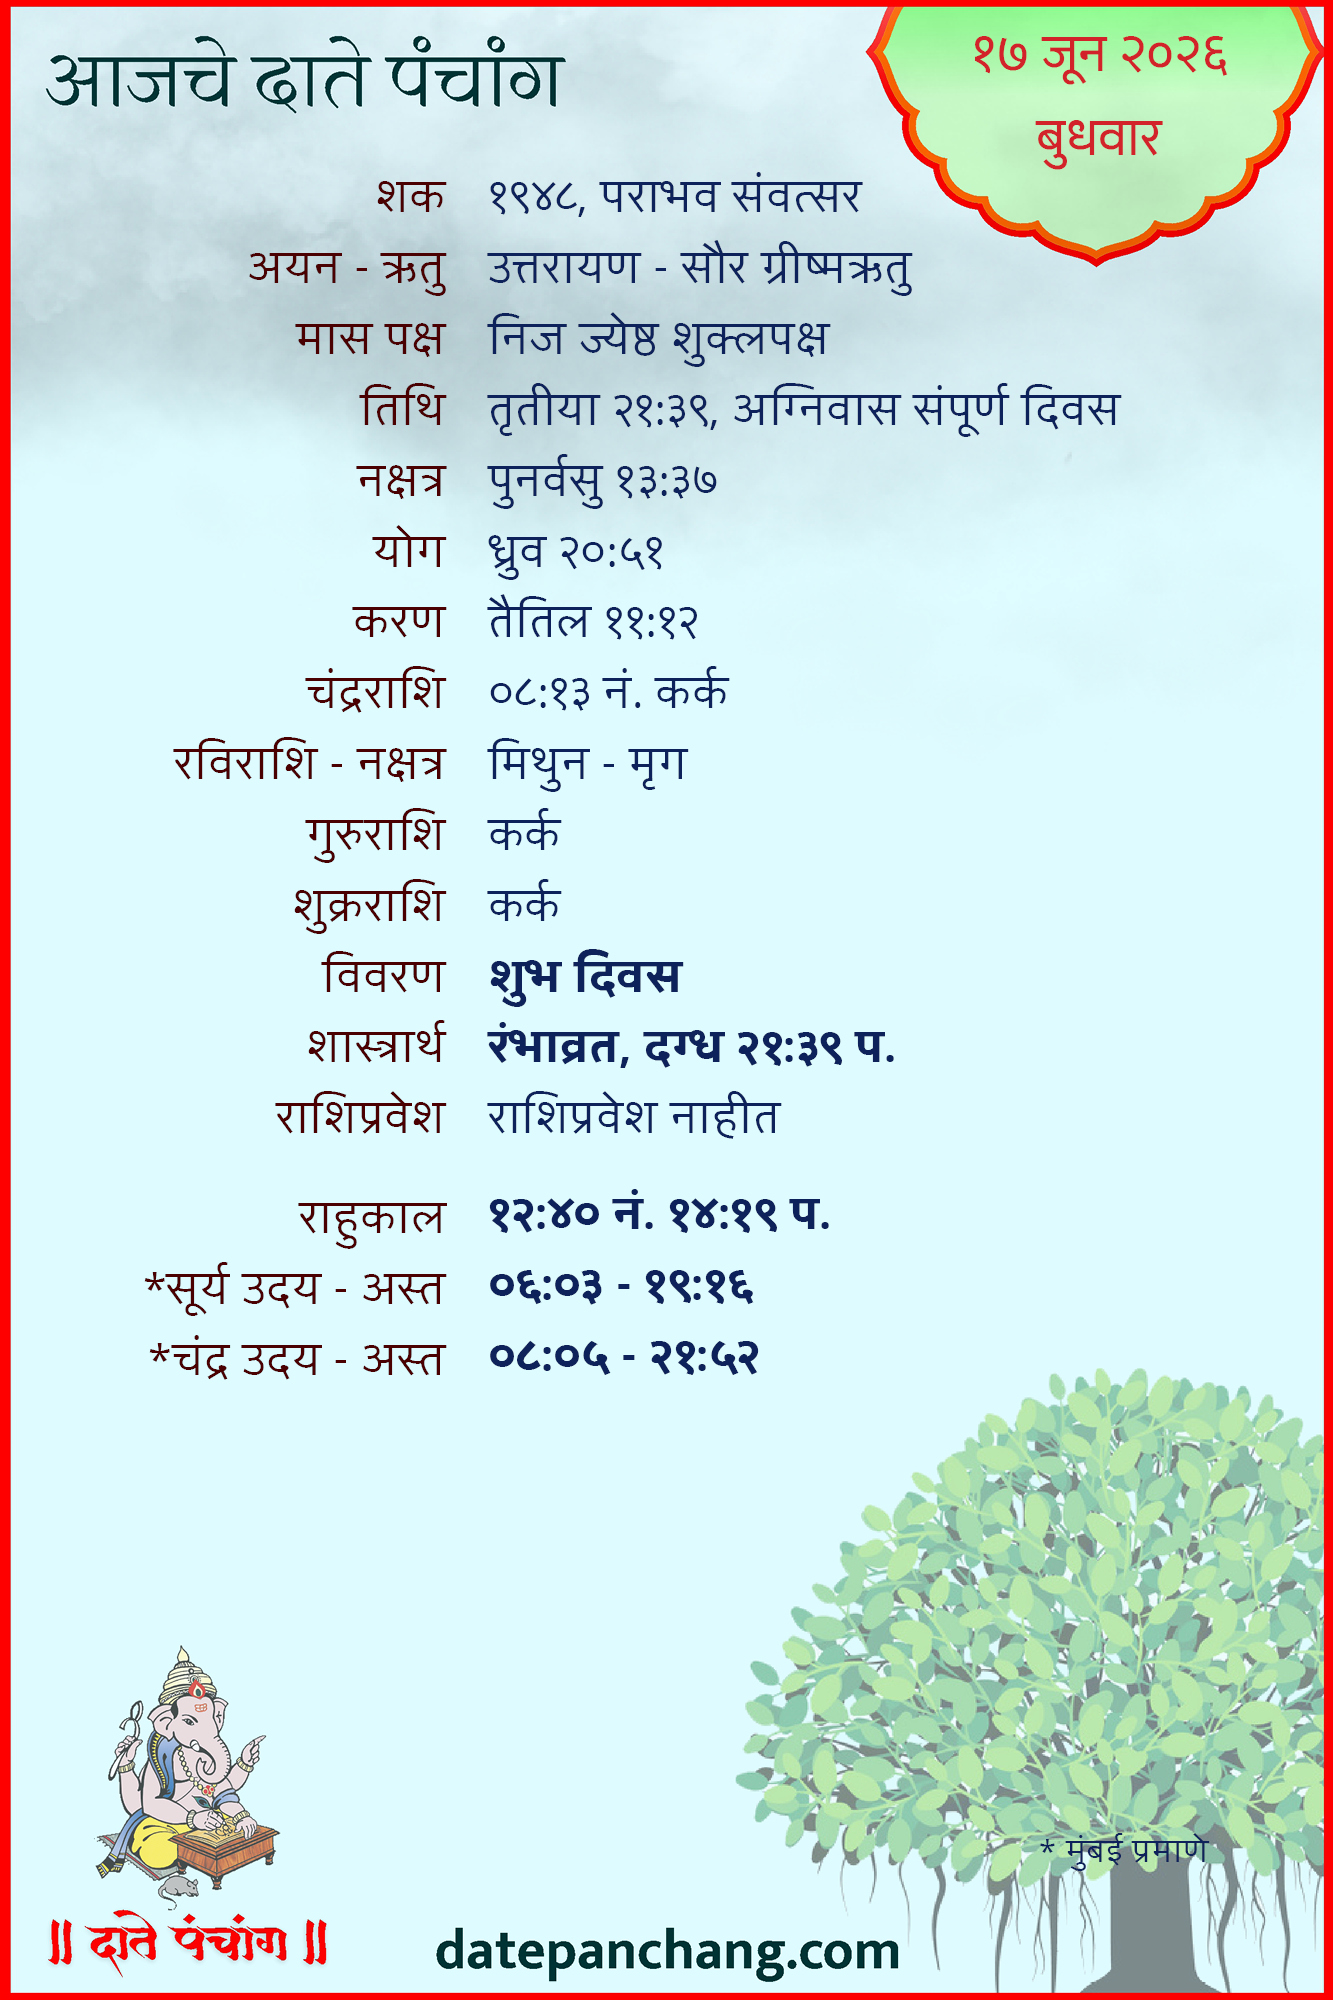
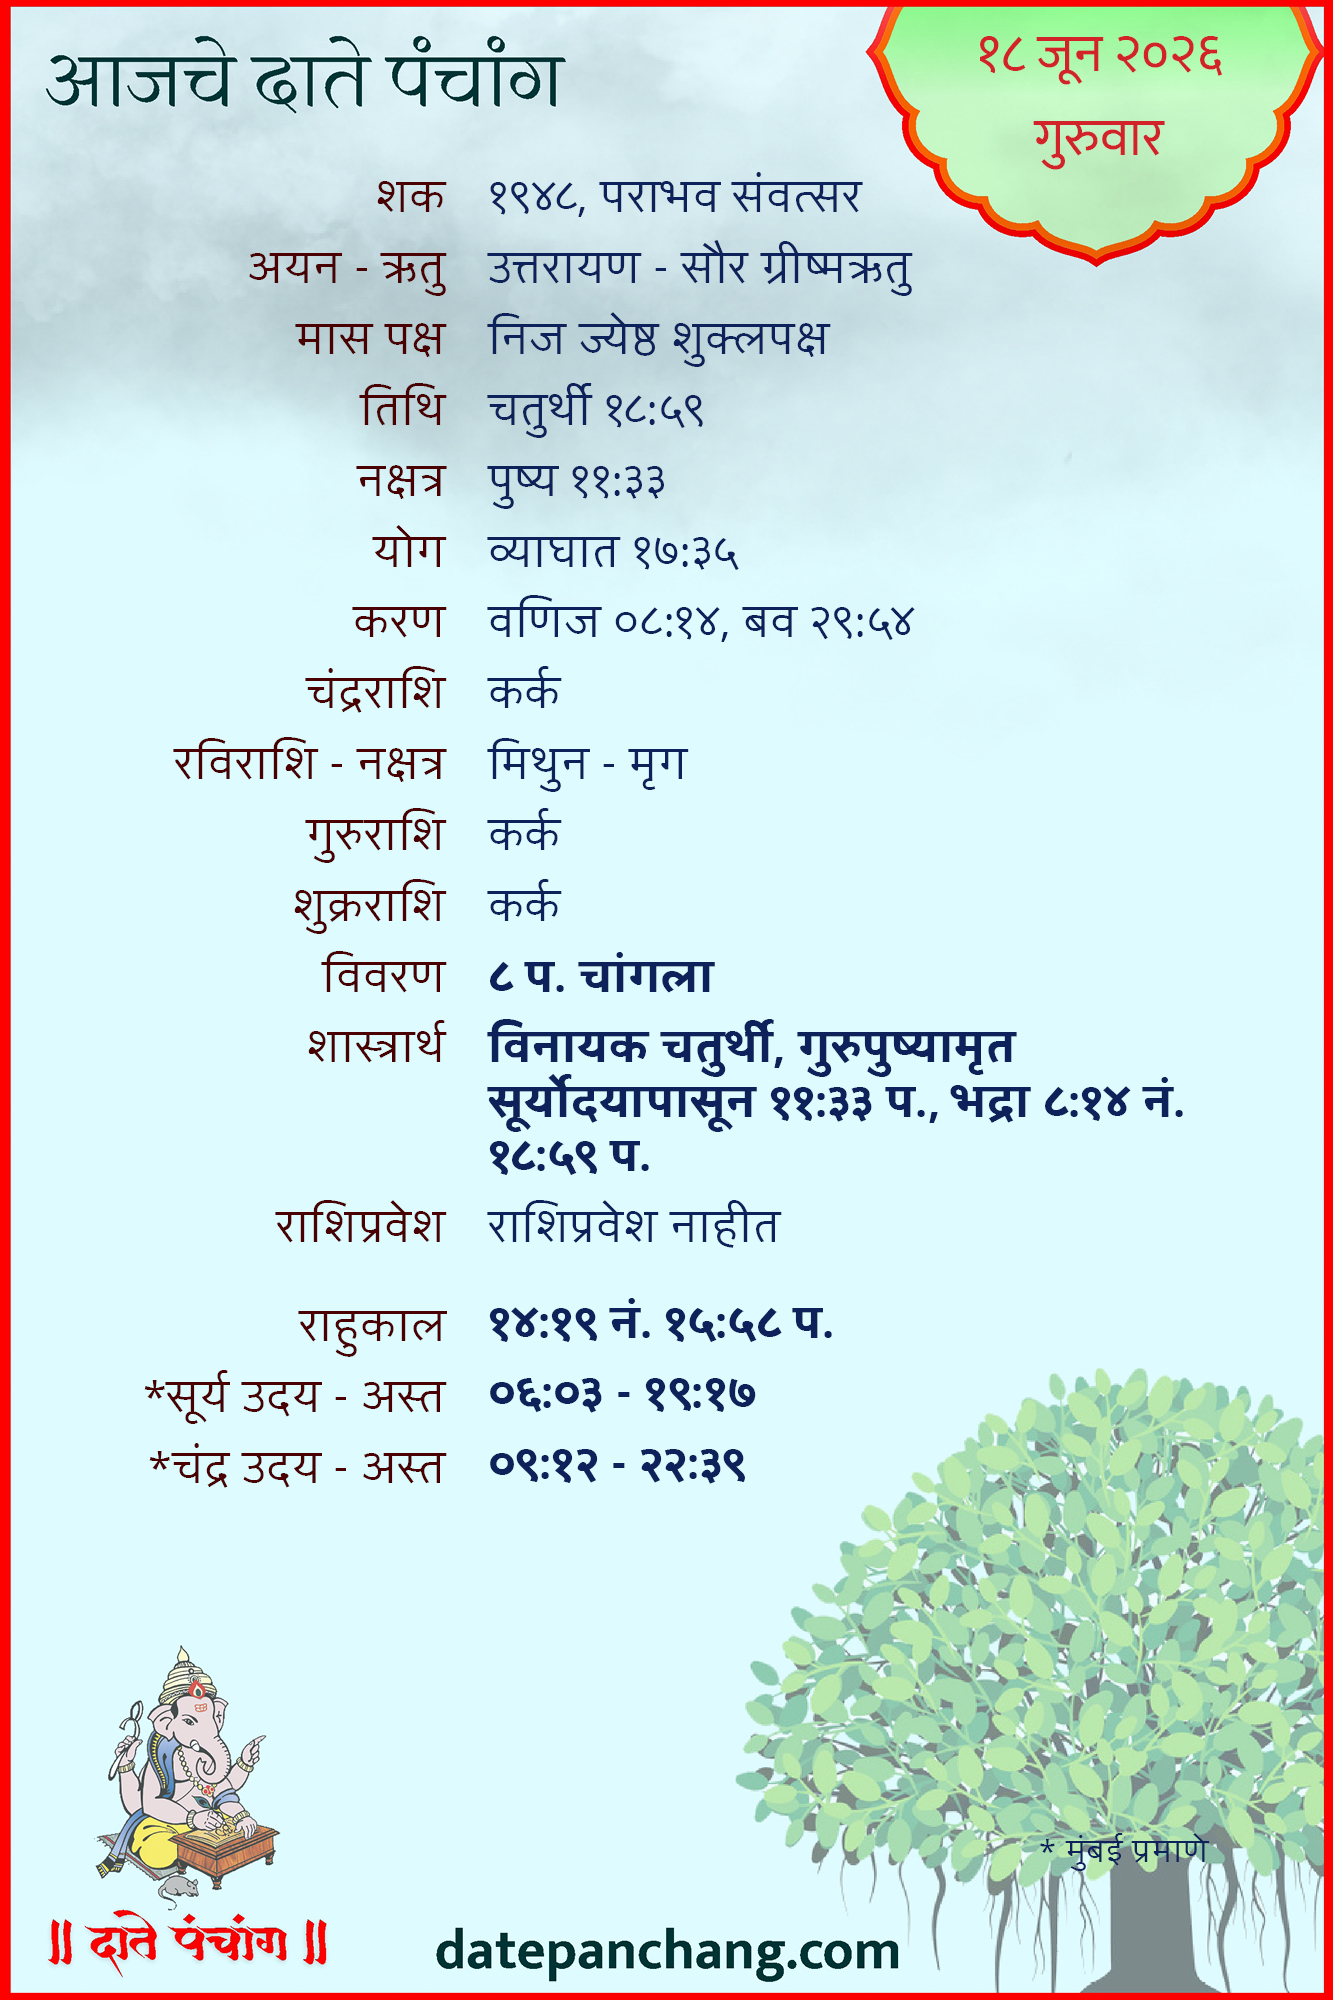
Automated commit by GitHub Actions

diff --git a/panchang.html b/panchang.html
@@ -22,7 +22,7 @@
         }
 
         body {
-            background-image: url('images/green.jpg');
+            background-image: url('images/yellow.jpg');
             background-size: cover;
             color: black; /* Change the text color BLACK/WHITE as desired */
             font-family: Arial, sans-serif;
@@ -159,7 +159,7 @@
      
      <h1>||ॐ|| पंचांग ||卐||</h1>
      <div class="additional-text">
-        <p><strong>17 Jun 2026</strong></p>
+        <p><strong>18 Jun 2026</strong></p>
     </div>
     <div class="panchang-container">
         <div class="panchang-detail"><strong>वार: बुधवार</strong></div>
@@ -173,7 +173,7 @@
         <div class="panchang-detail"><strong>राशी: मिथुन - 08:13 तक</strong></div>
         <div class="panchang-detail"><strong>दिनमान: 13 घण्टे 16 मिनट्स 40 सेकण्ड्स</strong></div>
         <div class="panchang-detail"><strong>राहू काळ: उत्तरायण</strong></div>
-        <div class="panchang-detail"><strong>दिनविशेष: शूभ दिवस</strong></div>
+        <div class="panchang-detail"><strong>दिनविशेष: no details available</strong></div>
         <div class="additional-text"><strong>गोचर</strong></div>
         <div class="panchang-detail"><strong>सूर्य: मिथुन</strong><strong>, गुरु: कर्क</strong><strong>, शनि: मीन</strong></div></div>
         
